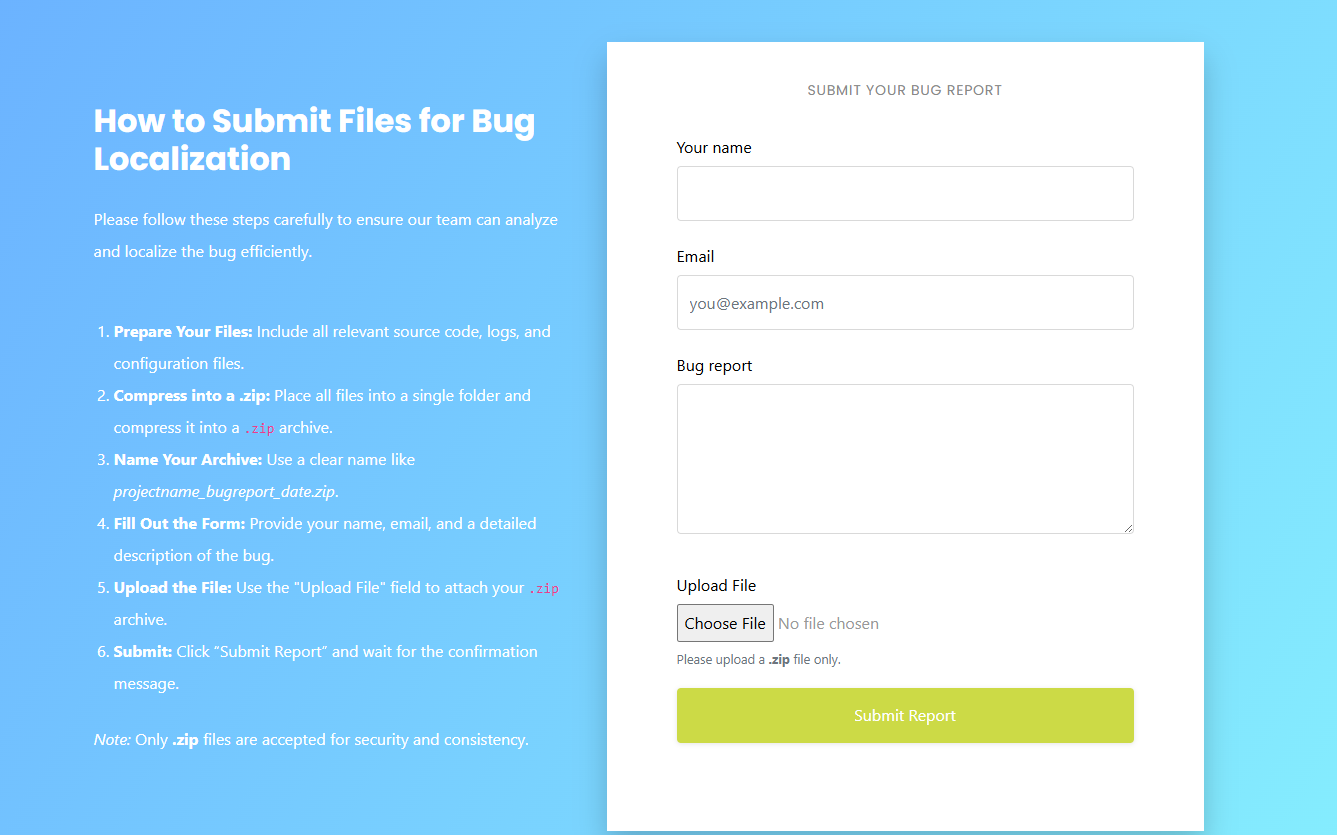
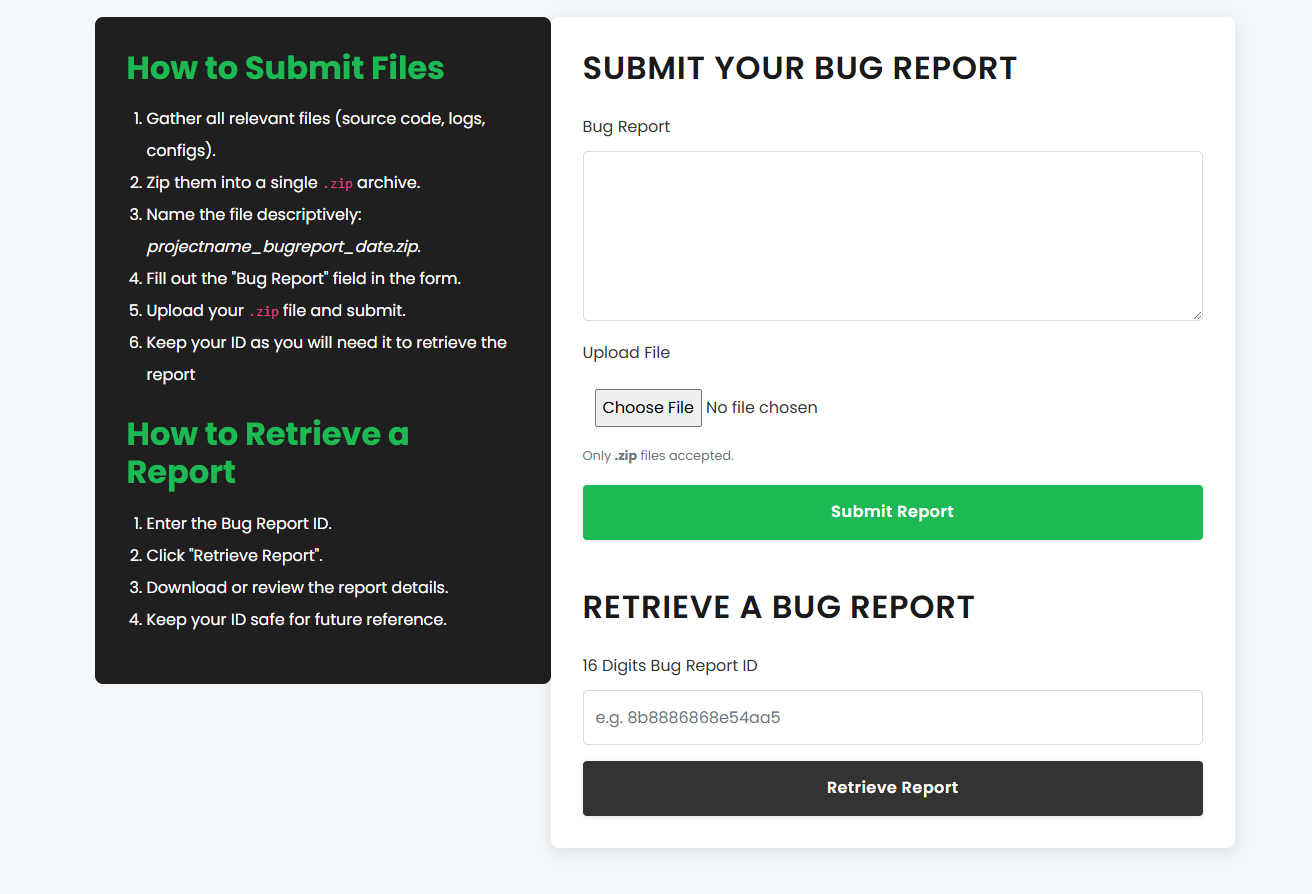
revise the website

diff --git a/docs/configuration.md b/docs/configuration.md
@@ -1,5 +1,5 @@
 ---
-title: Developer Guide 
+title: Guide for command-line 
 nav_order: 2
 ---
 
@@ -15,10 +15,12 @@ nav_order: 2
 {:toc}
 
 ---
+## Pre-requisite
+Our command-line tool uses on [Docker](https://www.docker.com/) as a backend to install all the dependency. So, please be sure to install Docker before you run it.
 
 
-## Tools
-This bug localizer requires some tools for static analysis. Please be sure to download the following tools before you deploy it.
+## Tools for Static Analysis
+CMIND uses some tools for static analysis. You will not need to install these tools yourself as it has already configured in the docker file.
 
 - [**Joern**](https://docs.joern.io/): We use Joern for data flow analysis and methods extractions.
 
@@ -27,7 +29,7 @@ This bug localizer requires some tools for static analysis. Please be sure to do
 ## LLM Agents
 Due to the limit of the input size in LLMs, we cannot keep using one LLM for the entire task. To this end, we seperate our LLMs agents into three differnt categories:
 
-- **Mehtod and file exploration**: Explore the related file path and methods from bug report
+- **Information collector**: Collect the entry point and the related functions from the bug report
 - **Static analysis**: Decide whether to use static analysis or callgraph analysis 
 - **Bug reasoning**: Reason the localization of the bugs and summarize the bug reasoning
 
@@ -35,39 +37,38 @@ Due to the limit of the input size in LLMs, we cannot keep using one LLM for the
 
 ![work flow](/assets/images/workflow.png) 
 
-## Pre-requisite
-To set up your local environment, run the following command. We recommend the use of a virtual environment for running the experiments.
-
-```bash
-pip install -r requirements.txt
-```
 
 ## Configurations
 
 Please create the JSON file with the following format to set up your configuration. Note that we do not upload this file for the security reason. For password, you will need to generate the APP password instead of the password for your email.
 
-```json
+``` json
 {
-  "doxyfile_dir":"your doxyfile directory",
-  "model_name": "o4-mini-2025-04-16",
-  "joern_dir": "Joern directory",
-  "openai_key": "file name of your OpenAI key",
-  "sender_email":"your email",
-  "sender_password":"Your password"
+    "doxyfile_dir": "Path of Doxyfile for generating callgraph",
+    "model_name": "GPT models tag",
+    "joern_dir": "Joern directory e.g. '/opt/joern/joern-cli/joern'. Note that it needs to be the directory in the docker container not local directory"
+    "_joern_dir": "Joern directory for tesing locally e.g. '/home/chiayi/bin/joern/joern-cli/joern' You will need to change it to joern_dir yourself when run it locally for debug",
+    "openai_key": "Path for your OpenAI key",
+    "project_dir": "Dirctory of your source code",
+    "report_file": "Directory for your bug report e.g. './bug_report.txt'",
+    "container_name": "The name of your docker container e.g. debugger_container"
 }
 ```
 
-We used ```o4-mini-2025-04-16``` for the experiments although you could try different cheaper/better models. Please refer to [OpenAI](https://platform.openai.com/docs/models) for more information.
+- We used ```o4-mini-2025-04-16``` and ```gpt-5-mini-2025-08-07``` for the experiments although you could try different cheaper/better models. Please refer to [OpenAI](https://platform.openai.com/docs/models) for more information.
 
 {: .warning }
 There are some string parsing might fail when you change to different models because different models could have output with different formats. Be sure to check this, when you use different models.
 
-## Quick Start
+## How to run the code
 To run the application, you can simply run the following command.
 
 ```bash
-python3 app.py
+python3 run.py --config-file=config.json
 ```
 
-After you start, you will be able to open the website on your browser in http://127.0.0.1:5000/
+```
+--config-file: Path of your config.json file
+```
 
+- You will see the results on your screen when it finished. It might take a while because tools for static analysis is slow.

diff --git a/docs/userguide.md b/docs/userguide.md
@@ -1,5 +1,5 @@
 ---
-title: User Guide
+title: Guide for website submission
 nav_order: 3
 ---
 
@@ -17,9 +17,9 @@ nav_order: 3
 ---
 
 ## Overview
-The way to submit the bug report and related projects for bug localization is via a web-based submission form. The system will send you the notification email when you successfully submit the bugs and notify you via the same email after your bug localization is done. 
+One way to run CMIND is to submit your source code and bug report to a web-based submission form to our [Website](http://172.237.148.235/). The system will send you an ID when you submit the bug report and source code. You will need this code to retrive/download the results. 
 
-This web form is built based on Python Flask framework. If you are a developer and wants to deploy this tool, please refer to [Developer guide]({% link docs/configuration.md %}) on how to deploy it. 
+If you want to run it locally, please refer to [Guide for command-line]({% link docs/configuration.md %}) on how to run it. 
 
 {: .note }
 Users are required to submit a `.zip` file that includes all of the source code, so the system can do the static analysis for more accurate results.
@@ -38,23 +38,15 @@ Users are required to submit a `.zip` file that includes all of the source code,
 
 
 ## Instructions
+### How to Submit Files
+- Gather all relevant files (source code, logs, configs).
+- Compress them into a single .zip archive.
+- Fill out the "Bug Report" field in the form.
+- Upload your .zip file and submit.
+- Keep your ID as you will need it to retrieve the report
 
-1. **Prepare your files**  
-   Include all source code in the projects, so the system can do the static analysis for more accurate results.  
-
-2. **Compress into a `.zip`**  
-   Place all files into a single folder and compress it into a `.zip` archive.  
-
-3. **Name your archive**  
-   Please do not include any white space in your file name.
-
-4. **Fill out the form**  
-- Please be sure the Email address is correct as the system uses the provided email for communication.
-- Please provide detailed bug report. 
-
-5. **Upload the file**  
-Only `.zip` files are accepted.  
-
-6. **Submit**  
-- Click **Submit Report** and wait for the confirmation message.  
-- After bug localization is done, you will receive another emial notification.
+### How to Retrieve a Report
+- Enter the Bug Report ID.
+- Click "Retrieve Report".
+- Download or review the report details.
+- Keep your ID safe for future reference.

diff --git a/index.md b/index.md
@@ -6,7 +6,7 @@ description: "Just the Docs is a responsive Jekyll theme with built-in search th
 permalink: /
 ---
 
-# Welcome to MIND
+# Welcome to CMIND
 {: .fs-9 }
 
 A bug localizer for memory bugs in C/C++
@@ -24,9 +24,9 @@ A bug localizer for memory bugs in C/C++
 <!-- {: .warning }
 > This website documents the features of the current `main` branch of the Just the Docs theme. See [the CHANGELOG]({% link CHANGELOG.md %}) for a list of releases, new features, and bug fixes. -->
 
-MIND stands for Memory Bug Inspection based on Neural Deduction and is developed by [apcl-research](https://github.com/apcl-research) at [University of Notre Dame](https://cse.nd.edu/). It is specifically developed to localize memory bugs in C/C++. MIND is mainly built based on the o4-mini model although you can change it to different models with cheaper/better options. You can refer to [Open AI](https://platform.openai.com/docs/models) for more information.
+CMIND stands for C Memory Bug Inspection based on Neural Deduction and is developed by [apcl-research](https://github.com/apcl-research) at [University of Notre Dame](https://cse.nd.edu/). It is specifically developed to localize memory bugs in C. CMIND is mainly tested on the ```o4-mini-2025-04-16``` and ```gpt-5-mini-2025-08-07``` models although you can change it to different models with cheaper/better options. You can refer to [Open AI](https://platform.openai.com/docs/models) for more information.
 
-The author of MIND is [Chia-Yi Su](https://chiayisu.github.io/) and [Collin McMillan](https://sdf.org/~cmc/). We are commited to keep MIND open source. If you cannot find anything or have any question, please contact us. 
+The author of CMIND is [Chia-Yi Su](https://chiayisu.github.io/) and [Collin McMillan](https://sdf.org/~cmc/). We are commited to keep CMIND open source. If you cannot find anything or have any question, please contact us. 
 
 The video demonstration for [ICSE 2026](https://conf.researchr.org/track/icse-2026/icse-2026-demonstrations) is as follows.
 
@@ -38,8 +38,8 @@ The video demonstration for [ICSE 2026](https://conf.researchr.org/track/icse-20
 
 ## Citation
 ```bibtex
-@article{Su2025xxx,
-  title     = {xxx},
+@article{Su2025CMIND,
+  title     = {CMind: An AI Agent for Localizing C Memory Bugs},
   author    = {Chia-Yi Su and Collin McMillan},
   journal   = {xxx},
   volume    = {xxx},
